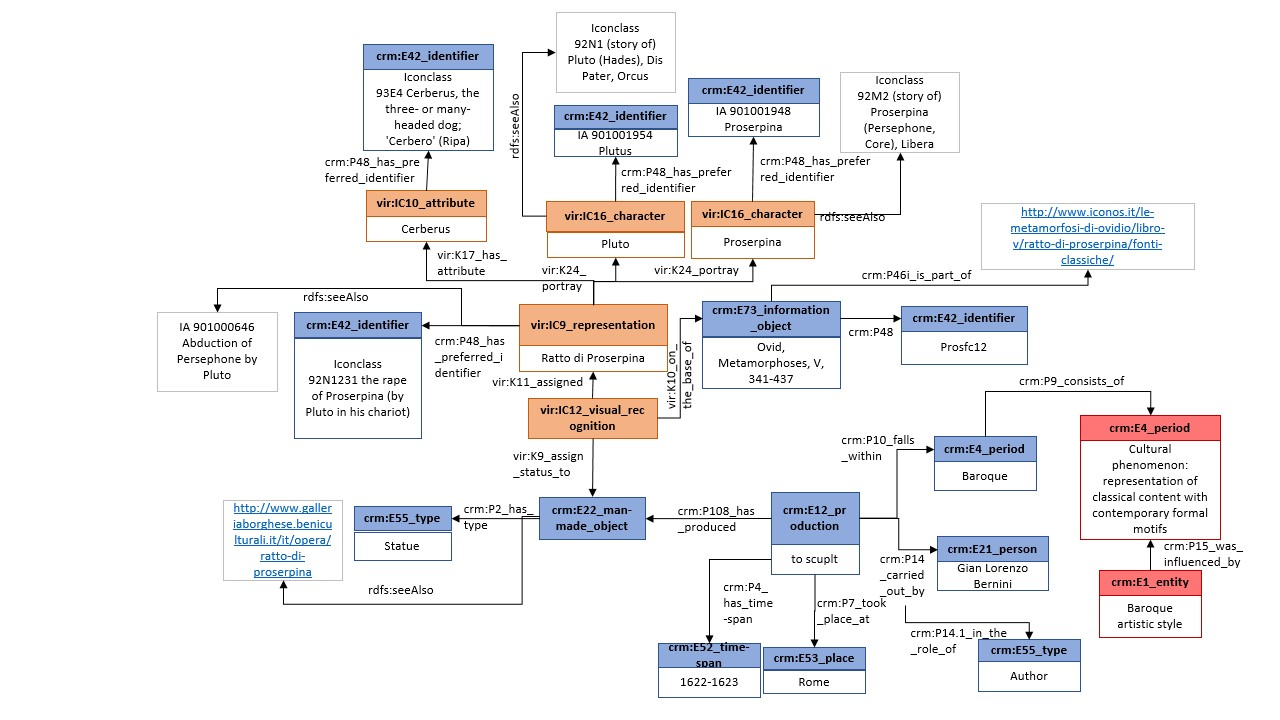
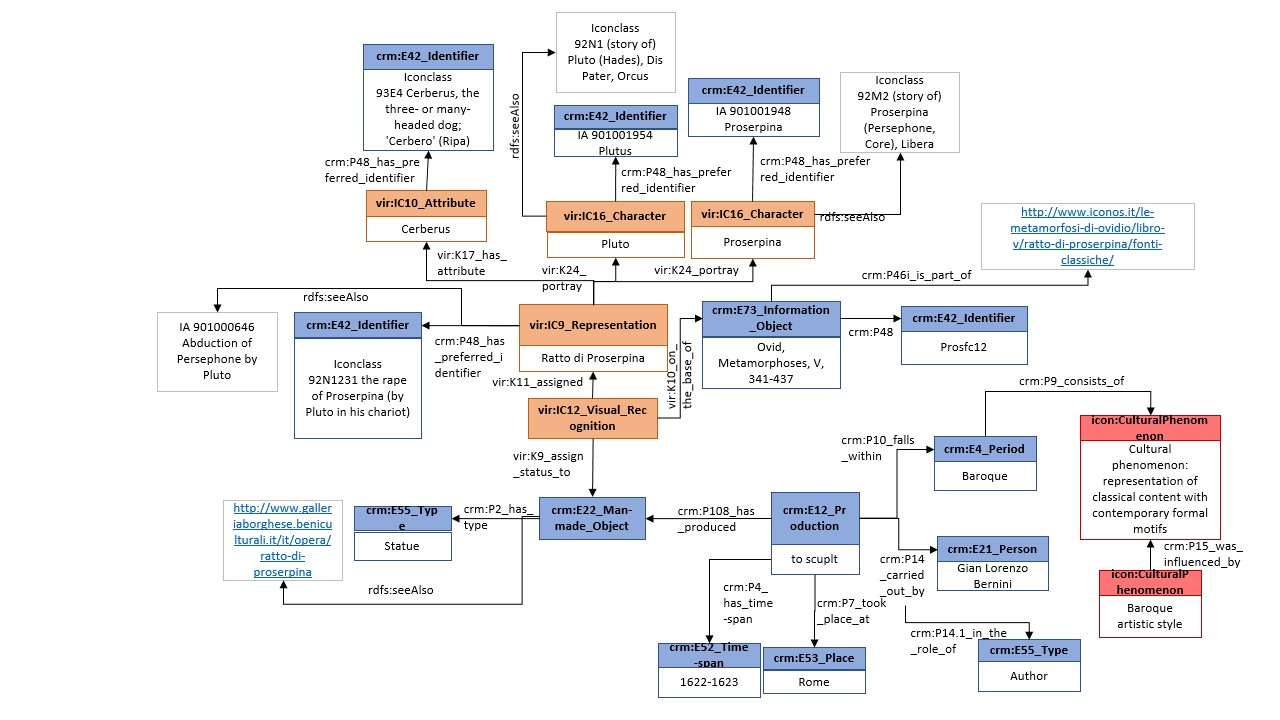
ImagesUpdating

diff --git a/sito/index.html b/sito/index.html
@@ -93,7 +93,7 @@
 						<p>The division is made on the basis of the analysis of approximately 50 iconological studies performed by Warburg and the major representatives of iconological studies, such as Panofsky, Gombrich, Wittkower. Among the literature, we noticed some recurring structures of the analysis itself. The aim of identifying typologies is to clearly underline which types of elements and relations are usually involved in an iconological interpretation of a subject. Every typology is an abstraction of reality and, in practical terms, more than one typology can be identified. </p>
 						<br>
 
-						<p>From the description of the cases emerged that the major part of components embedded in a visual representation can be approximately described by means of vocabularies and thesauri; yet, they don’t discern between pre-iconographical description objects, proper subjects and concepts. The VIR ontology partially covers this need allowing to relate to a vir:ic1_iconographical_atom (l. 1) the recognized representation (l. 2) and its major components. However, it’s not possible to link a concept (l. 3) to the whole representation, r to express a 4th level meaning. This issue has been solved in this study by the ideation/supposition of a class called “iconological recognition” that can associate a representation to a third level concept or the physical object to a fourth level concept. </p>
+						<p>From the description of the cases emerged that the major part of components embedded in a visual representation can be approximately described by means of vocabularies and thesauri; yet, they don’t discern between pre-iconographical description objects, proper subjects and concepts. The VIR ontology partially covers this need allowing to relate to a vir:IC1_Iconographical_Atom (l. 1) the recognized representation (l. 2) and its major components. However, it’s not possible to link a concept (l. 3) to the whole representation, r to express a 4th level meaning. This issue has been solved in this study by the ideation/supposition of a class called “iconological recognition” that can associate a representation to a third level concept or the physical object to a fourth level concept. </p>
 						<p>In addition, for every expression of 4th level concept a formal representation of the concept of “cultural phenomenon” is needed, but there’s not a class that can appropriately describe it in VIR nor in CIDOC-CRM. In this study it’s indicated by means of a general crm:1_entity, indicating the formalisation of an appropriate class for future studies.</p> 
 
 					</div>
@@ -402,10 +402,10 @@
 									<p> VIR ontology can model up to 3rd level meanings; it's necessary to shape the cultural phenomenon and action parallelism </p>
 							</div>
 							<p>The chart shows how it’s possible to represent the <b>artwork content by means of CIDOC-CRM and VIR ontologies</b>. Thus, the physical artwork (crm:E22_Man-Made_Object, in the bottom of the picture) is composed of iconographical atoms. One of them identifies all the pictorial surface, whereas the other two individuates two specific portions of it by the relation crm:P46_is_composed_of, as the domain of the relation is crm:E18_Physical_Thing, superclass of vir:IC1_Iconographical_Atom. This subdivision allows to specify at the same time the entire representation and its attributes (on the left) and all the relevant representations that should be described more in detail. In order to clarify this dependence, the relation vir:K20_is_composed_of relates the whole representation to istances representing specific parts contained in it. </p>
-							<p>As specified before, Vermeer’s painting presents two subjects at the same level. This is described by means of relating to the same vir:IC1_iconographical_atom labelled “woman” two individuals of vir:IC9_representation, one representing the woman holding a balance, the other representing the personification of Divine Justice; Van Straten will be specified as the author of the last identification. The two representations are linked by the relation vir:K23_connote. The same problem, for which we adopted the same solution, is present in the second case of typology 1, since the putto impersonating Cupid, identified by means of his arch and quiver, is at the same time acting as a puer mingens, a putto who pees in the sign of auspicious wish of fertility. 
+							<p>As specified before, Vermeer’s painting presents two subjects at the same level. This is described by means of relating to the same vir:IC1_Iconographical_Atom labelled “woman” two individuals of vir:IC9_representation, one representing the woman holding a balance, the other representing the personification of Divine Justice; Van Straten will be specified as the author of the last identification. The two representations are linked by the relation vir:K23_connote. The same problem, for which we adopted the same solution, is present in Lotto's <a href="#second_artwork"><i>Venus and Cupid</i></a>, since the putto impersonating Cupid, identified by means of his arch and quiver, is at the same time acting as a puer mingens, a putto who pees in the sign of auspicious wish of fertility. 
 							</p>
-							<p>The <b>actions parallelism </b>considered above is expressed by means of a relation between two individuals of crm:E5_event, linked to the representation to which they belong by crm:P138_represents. It’s necessary to model a new relation, since the existing crm:P67_refers_to has as domain crm:E89_Propositional_object.</p>
- 							<p>This solution is further applied in other following case studies in order to express other actions: the act of peeing made by the iconography of the puer mingens in Lotto’s Venus and Cupid (typology 1, case 2) and in the Annunciation in Wurzburg (typology 2, case 3), in which God blows in a tube inserted in Mary’s ear to fulfil the Immaculate Conception through the holy words. Each of these actions is a symbol of another event; this relation is expressed by a “refers to” hypothetical property linking the depicted event to the symbolic one.  
+							<p>The <b>actions parallelism </b>considered above is expressed by means of a relation between two individuals of crm:E5_Event, linked to the representation to which they belong by crm:P138_represents. It’s necessary to model a new relation, since the existing crm:P67_refers_to has as domain crm:E89_Propositional_object.</p>
+ 							<p>This solution is further applied in other following case studies in order to express other actions: the act of peeing made by the iconography of the puer mingens in Lotto’s <a href="#second_artwork"><i>Venus and Cupid</i></a> and in the <a href="#sixth_artwork"><i>Annunciation</i></a> in Wurzburg, in which God blows in a tube inserted in Mary’s ear to fulfil the Immaculate Conception through the holy words. Each of these actions is a symbol of another event; this relation is expressed by a icon:refersTo hypothetical property linking the depicted event to the symbolic one.  
 							</p>
 
 
@@ -427,7 +427,7 @@
 							</div>
 
 							<p>Finally, the iconological interpretation had been expressed by linking the two paintings taken into account (Vermeer’s woman holding a balance and Allegory of Faith) to the cultural phenomenon recognized by means of two instances of “iconological recognition”, an hypothetical model for a class that could represent iconological and iconographical interpretations not described by current ontologies. Since it’s on the basis of the recognition of the phenomenon in Allegory of Faith that its presence in the other painting it’s supposed, it’s considered worthwhile to express this dependence by means of the relation cito:obtainsBackgroundFrom. </p>
-							<p>This representation can be further used for deeper meaning inferences: both the representations present the same attribute (vir:IC10_attribute “home interior”)  and the same level 3 concept (crm:E28_conceptual_object “catholic theme depicted in home interior”) cited as evidence of the two iconological recognition. Thus, it’s possible to infer that if a painting belonging to the Dutch Golden Age has both these instances annotated, the painting may be related to the cultural phenomenon individuated. </p>
+							<p>This representation can be further used for deeper meaning inferences: both the representations present the same attribute (vir:IC10_Attribute “home interior”)  and the same level 3 concept (crm:E28_conceptual_object “catholic theme depicted in home interior”) cited as evidence of the two iconological recognition. Thus, it’s possible to infer that if a painting belonging to the Dutch Golden Age has both these instances annotated, the painting may be related to the cultural phenomenon individuated. </p>
 							</div>
 						</div>
 						<ul class="actions">
@@ -559,7 +559,7 @@
 									<p> CIDOC-CRM ontology allow to register important contemporary events belonging to the context that had an influence on the fresco's production</p>
 							</div>
 							
-							<p>The cycle can be formalized as a vir:IC9_representation composed (vir:K20_is_composed_of) of three other individuals of the same class, one for each wall. Then, every representation is linked to instances of vir:IC1_iconographical_atom by means of vir:IC12_visual_recognition, since in this way it’s possible to specify the author and sources of the identification (chart 7).  
+							<p>The cycle can be formalized as a vir:IC9_representation composed (vir:K20_is_composed_of) of three other individuals of the same class, one for each wall. Then, every representation is linked to instances of vir:IC1_Iconographical_Atom by means of vir:IC12_visual_recognition, since in this way it’s possible to specify the author and sources of the identification (chart 7).  
 							</p>
 							<p>The role held by historical characters considered is associated to them by means of the class pro:roleInTime and the relative relation pro:holdsRoleInTime; although this is the proper solution to formally express the role of the two historical rulers, further analysis is required to express the fact that the role attributed to Lorenzo de Medici in this context by the author's interpretation it’s not historical or objective.
 							</p>
@@ -772,7 +772,7 @@
 							</div>
 							<p>Vocabularies and thesauri taken into account can describe subjects considered but not enough in detail to distinguish significant variants of the iconography.    
 							</p>
-							<p>As the immaculate conception event is represented during the annunciation, these events are individuated by two different vir:IC9_representation linked to the same vir:IC1_iconographical_atom in the study of the two artworks considered (charts 11-12). The characters depicted are then described as another instance of representation in order to identify which attributes or meanings correspond to a specific character, and both events’ representation will point at them since they’re simultaneously acting in them. To make variants clearer, each individual has been related to the most specific term of a controlled vocabulary.
+							<p>As the immaculate conception event is represented during the annunciation, these events are individuated by two different vir:IC9_representation linked to the same vir:IC1_Iconographical_Atom in the study of the two artworks considered (charts 11-12). The characters depicted are then described as another instance of representation in order to identify which attributes or meanings correspond to a specific character, and both events’ representation will point at them since they’re simultaneously acting in them. To make variants clearer, each individual has been related to the most specific term of a controlled vocabulary.
 							</p>
 							<p>One event that cannot be carefully described by current ontologies is the act of symbolically fecundating Mary by means of a tube in which God blows his word. As described in case study 1 of section 1, in this study we solved this issue by representing it with a “refers to” relation linking the event depicted (blowing in the tube) to the symbolical one (fecundation). In this way, iconographical variants can be carefully described.  </p>
 							<div class="row">
@@ -904,7 +904,7 @@
 							
 							<p>Vocabularies allow describing all the l. 1 items (except the trident and the related Council of Trent), the quos Ego iconography (l. 2) and l. 3 symbolic concepts.   
 							</p>
-							<p>Since the fountain presents the Quos Ego iconography and other symbols, each of them is formally expressed by a vir:IC9_representation related to the corresponding vir:IC1_Iconographical_atom (chart 15). VIR ontology can also fully describe the author of visual recognition, the concepts that the symbols are representing and related terms of vocabularies. Neptune as personification and the trident as attribute are then specified. 
+							<p>Since the fountain presents the Quos Ego iconography and other symbols, each of them is formally expressed by a vir:IC9_representation related to the corresponding vir:IC1_Iconographical_Atom (chart 15). VIR ontology can also fully describe the author of visual recognition, the concepts that the symbols are representing and related terms of vocabularies. Neptune as personification and the trident as attribute are then specified. 
 							</p>
 							<p>Furthermore, the Quos Ego representation is related by crm:P107_show_features_of to the Raimondi’s representation. As the context of production is relevant, it has been expressed by CIDOC-CRM classes and relations. Moreover, in order to highlight the fact that the iconography had been referenced to highlight the role of the ruler, this has been annotated by pro:RoleInTime referred respectively to Neptune, pope Julius II and Pier Donato Cesi. </p>
 
